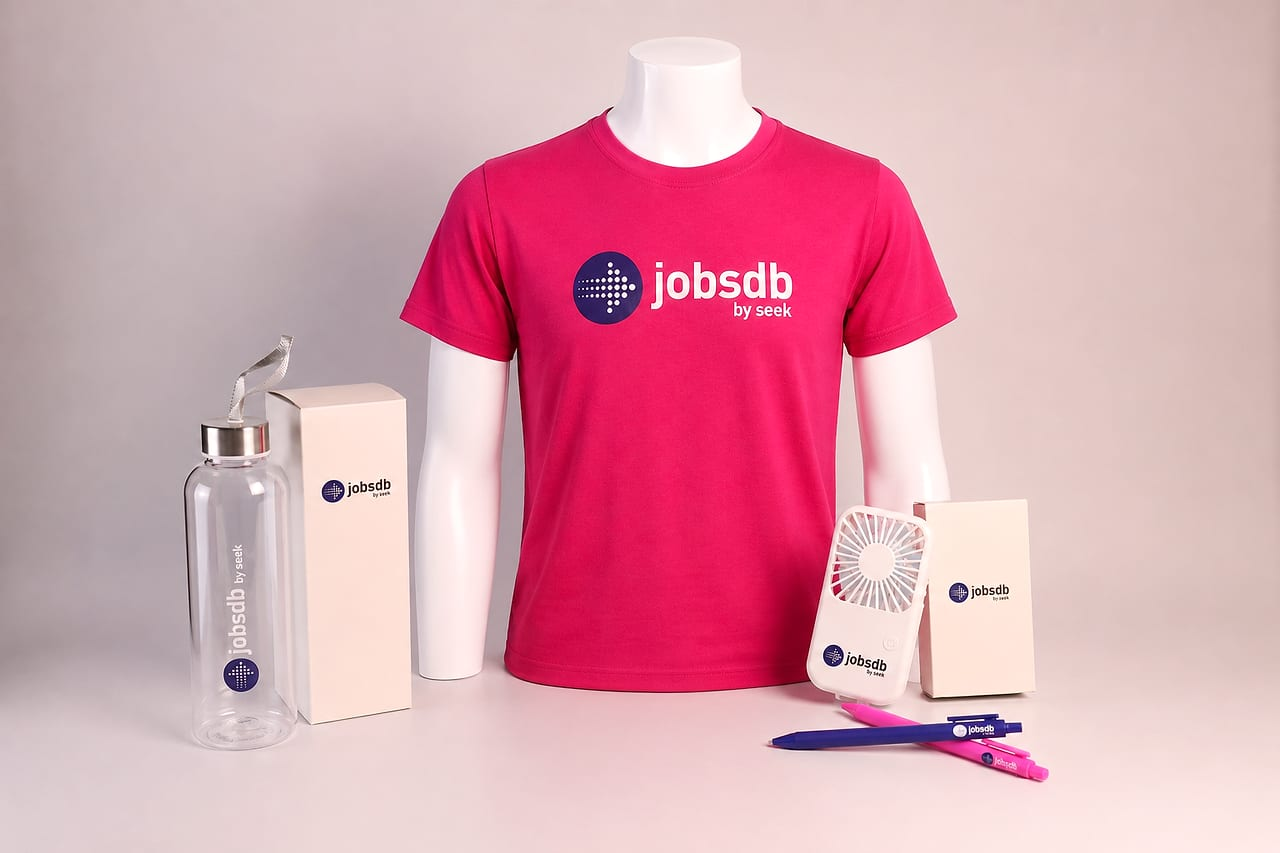
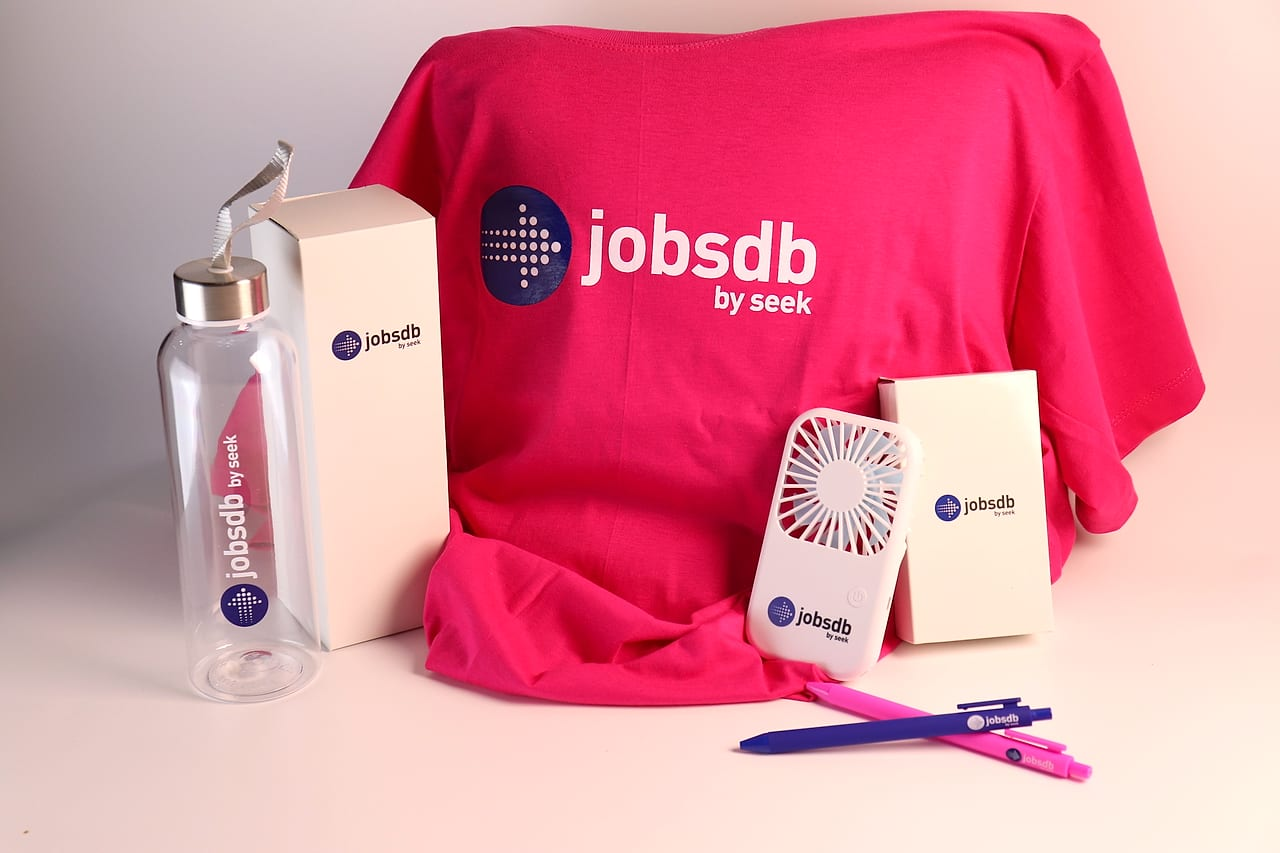
portfolio: add ALL real jobsdb by SEEK client works (5 items)
- replace AI-gen gift-jobsdb hero/case image with the REAL photo (IMG_6675)
- new cards: fan-jobsdb (handheld fan + box), pen-jobsdb (brand-colour pens)
- credit drink-bottles-pair to jobsdb (logo verified on bottle + box)
- new portfolio filter chip: fan (พัดลมมือถือ)
- manifest + generator script kept in sync

diff --git a/public/v2.html b/public/v2.html
@@ -1245,13 +1245,13 @@ function viewExpress(){
 function viewPortfolio(){
   const P_IMG='images/portfolio/';
   const playIcon='<svg width="34" height="34" viewBox="0 0 24 24" fill="currentColor"><path d="M8 5v14l11-7z"/></svg>';
-  const CATL={drinkware:'แก้ว & ขวดน้ำ',cap:'หมวก',bag:'กระเป๋า',umbrella:'ร่ม',stationery:'เครื่องเขียน',lifestyle:'ไลฟ์สไตล์',giftset:'กิฟต์เซ็ต'};
+  const CATL={drinkware:'แก้ว & ขวดน้ำ',cap:'หมวก',bag:'กระเป๋า',umbrella:'ร่ม',fan:'พัดลมมือถือ',stationery:'เครื่องเขียน',lifestyle:'ไลฟ์สไตล์',giftset:'กิฟต์เซ็ต'};
   const ITM=[
     {s:'drink-chococrm-gold',cat:'drinkware',t:'กระบอกน้ำเก็บอุณหภูมิ สกรีนโลโก้',b:'ChocoCRM',f:1},
     {s:'drink-tumbler-copper',cat:'drinkware',t:'แก้วทัมเบลอร์สแตนเลส โทนทองแดง',b:'ChocoCRM',f:0},
     {s:'drink-bottle-gift',cat:'drinkware',t:'ขวดน้ำพร้อมกล่องของขวัญ',b:'jobsdb',f:0},
     {s:'drink-tumbler-white',cat:'drinkware',t:'แก้วทัมเบลอร์ฝาหลอด มินิมอล',b:'NSC PR',f:0},
-    {s:'drink-bottles-pair',cat:'drinkware',t:'ขวดน้ำแก้วใสสกรีนโลโก้',b:'',f:0},
+    {s:'drink-bottles-pair',cat:'drinkware',t:'ขวดน้ำแก้วใสสกรีนโลโก้',b:'jobsdb',f:0},
     {s:'cap-lenso',cat:'cap',t:'หมวกแก๊ปปักโลโก้',b:'LENSO',f:0},
     {s:'cap-duo',cat:'cap',t:'หมวกแก๊ปทรงพรีเมียม',b:'LENSO · LION',f:0},
     {s:'bag-phoenix',cat:'bag',t:'กระเป๋าผ้าดีไซน์เฉพาะแบรนด์',b:'Phoenix',f:0},
@@ -1259,8 +1259,10 @@ function viewPortfolio(){
     {s:'bag-duffel',cat:'bag',t:'กระเป๋า Duffel พร้อมเซ็ตของขวัญ',b:'PBL',f:1},
     {s:'umb-vora-red',cat:'umbrella',t:'ร่มพับสกรีนโลโก้รอบปลอก',b:'Toyota วรจักร',f:1},
     {s:'umb-folded',cat:'umbrella',t:'ร่มพับทรงพรีเมียม',b:'KYONT',f:0},
+    {s:'fan-jobsdb',cat:'fan',t:'พัดลมพกพาสกรีนโลโก้ พร้อมกล่อง',b:'jobsdb',f:0},
     {s:'note-choco',cat:'stationery',t:'สมุดโน้ตปกสกรีนโลโก้',b:'ChocoCRM',f:0},
     {s:'pen-teal',cat:'stationery',t:'ปากกาโลหะสลักโลโก้',b:'GO PREMIUM',f:0},
+    {s:'pen-jobsdb',cat:'stationery',t:'ปากกาสกรีนโลโก้ สีประจำแบรนด์',b:'jobsdb',f:0},
     {s:'pillow-grey',cat:'lifestyle',t:'หมอนอิงสกรีนโลโก้แบรนด์',b:'OMODA · JAECOO',f:0},
     {s:'pillow-cream',cat:'lifestyle',t:'หมอนอิงปักโลโก้',b:'OMODA · JAECOO',f:0},
     {s:'gift-baankhanyt',cat:'giftset',t:'ชุดของขวัญงานหนังในกล่องไม้',b:'BAANKHANYT',f:1},
